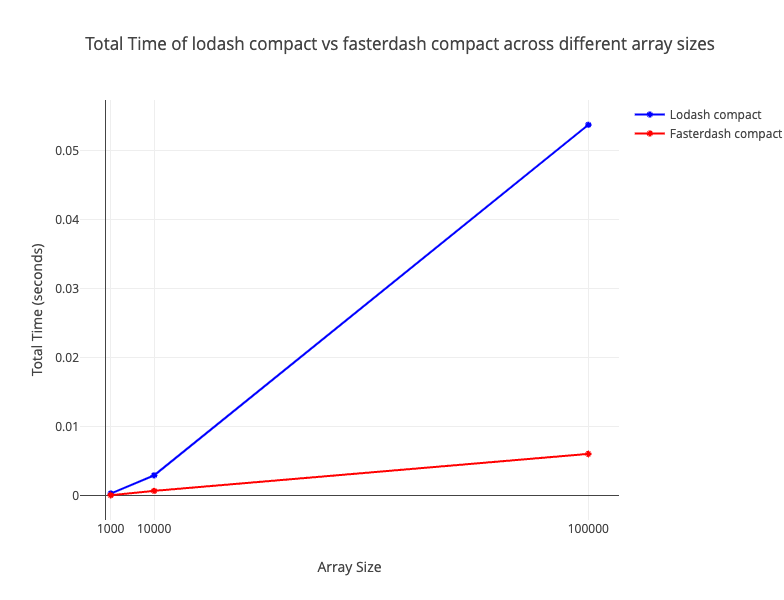
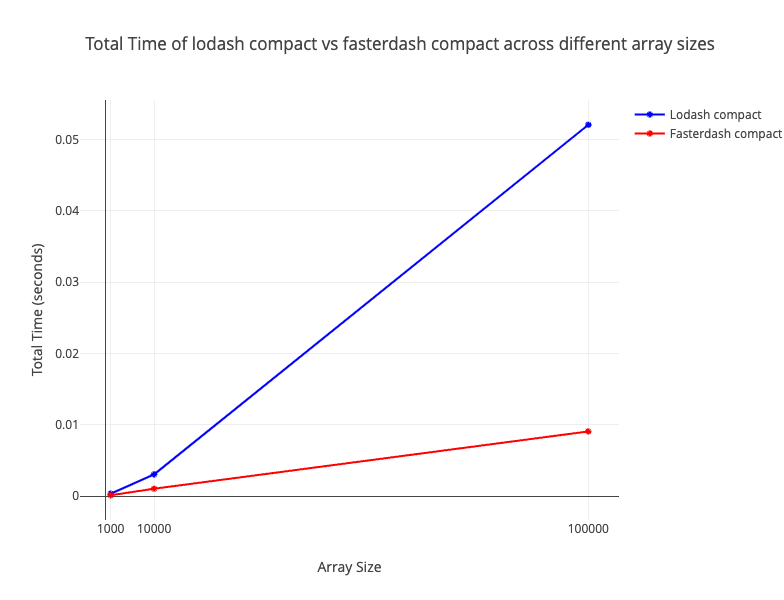
Fixed compact code

diff --git a/index.js b/index.js
@@ -1,3 +1,4 @@
+import _ from 'lodash'
 import fasterdash from './lib/index.js';
 
 // Original array
@@ -27,3 +28,17 @@ console.log({sortByAgeDesc});
 console.log({sortByNameAsc});
 console.log({sortByNameDesc});
 console.log({sortByNameAscAgeDesc});
+
+
+const generateDataCompact = (size) => {
+    let largeArray = [];
+    for (let i = 0; i < size; i++) {
+      largeArray.push(i % 10 === 0 ? 0 : i);
+    }
+    return largeArray;
+  };
+
+const compactData = generateDataCompact(100);
+
+console.log({lodashCompact: _.compact(compactData)});
+console.log({fasterdashCompact: fasterdash.compact(compactData)});

diff --git a/src/lib.rs b/src/lib.rs
@@ -180,5 +180,5 @@ pub fn order_by(
 
 #[wasm_bindgen]
 pub fn compact(arr: Vec<i32>) -> Vec<i32> {
-    arr.into_iter().collect()
+    arr.into_iter().filter(|&x| x != 0).collect()
 }
